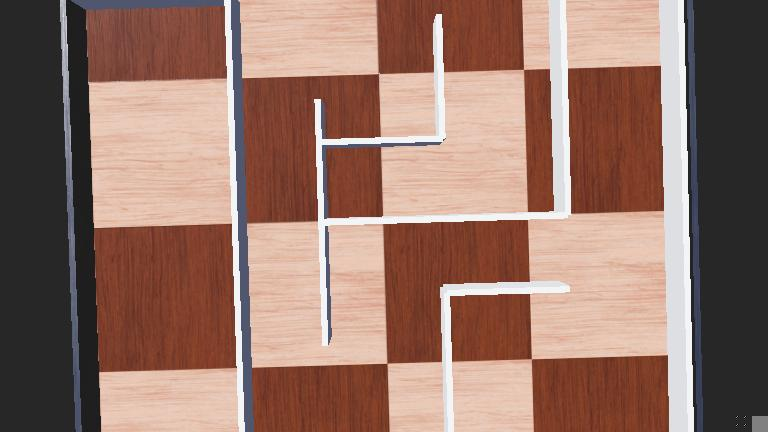
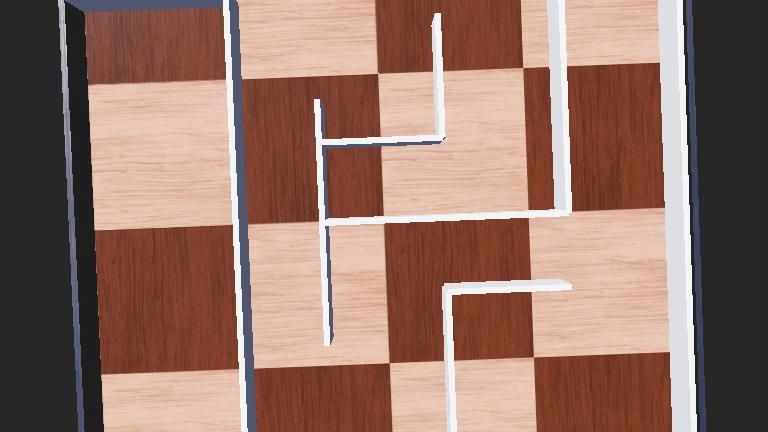
Added distance from right wall tracking, as well as turn aggression to keep certain distances apart

diff --git a/controllers/maze_solve_controller/maze_solve_controller.py b/controllers/maze_solve_controller/maze_solve_controller.py
@@ -36,7 +36,7 @@ right_motor = robot.getDevice('right wheel motor')
 left_motor.setPosition(float('inf'))
 right_motor.setPosition(float('inf'))
 #set max speed
-max_speed = 6.28
+max_speed = 4
 
 #set the motors to go
 left_motor.setVelocity(max_speed)
@@ -44,6 +44,14 @@ right_motor.setVelocity(max_speed)
 
 left_speed = max_speed
 right_speed = max_speed
+
+# Add a distance you want the robot from the wall
+target_distance = 150
+turn_aggression = .04
+
+#Set max velo to not break
+motor_limit = 6.28
+
 while robot.step(timestep) != -1:
     
     forward0 = int(ps0.getValue())
@@ -59,26 +67,32 @@ while robot.step(timestep) != -1:
     left0 = int(ps5.getValue())
     left1 = int(ps6.getValue())
     
-    right_sensors = [right0, right1]
-    forward_sensors = [forward0, forward1, forward2]
-    left_sensors = [left0, left1]
-    back_sensors = [back0, back1]
+    right_sensor = max(right0, right1)
+    forward_sensor = max(forward0, forward1, forward2)
+    left_sensor = max(left0, left1)
+    back_sensor = max(back0, back1)
     
-    # Process sensor data here.
-    if (max(right_sensors) < 75):
-        left_speed = max_speed
-        right_speed = -4
-        print("right")
-    elif (max(forward_sensors) < 75):
-        right_speed = max_speed
-        left_speed = max_speed
+    # Turning amount and erros
+    if forward_sensor > 200:
+        left_motor.setVelocity(-4)
+        right_motor.setVelocity(4)
+        for i in range(30):
+            robot.step(timestep)
         print("forward")
-    else: 
-        right_speed = max_speed
-        left_speed = -4
-        print("left")
+    else:    
+        distance_from_ideal = target_distance - right_sensor
+        if (abs(distance_from_ideal) < 80):
+            distance_from_ideal = 0
+        turn_correction = distance_from_ideal * turn_aggression
+        
+        left_speed = max_speed + turn_correction
+        right_speed = max_speed - turn_correction
+        
+        left_speed = max(min(left_speed, motor_limit), -motor_limit)
+        right_speed = max(min(right_speed, motor_limit), -motor_limit)
+        print("Right", right_sensor, "left", left_sensor, "distance_from_ideal", distance_from_ideal)
     left_motor.setVelocity(left_speed)
-    right_motor.setVelocity(right_speed)    
+    right_motor.setVelocity(right_speed)
     
     pass
 
